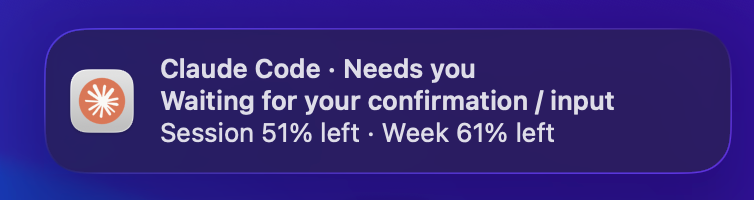
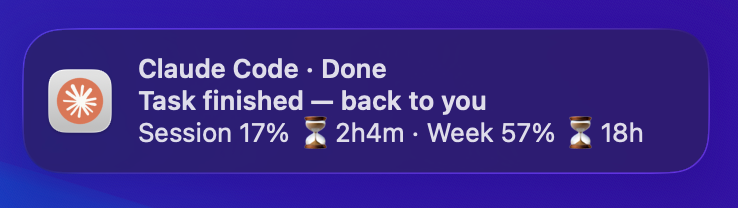
docs: update demo screenshot to show the reset countdown
Real notification capture of the new gauge layout (session/week balance
plus the ⏳ reset countdown); refresh the image alt text to match.

diff --git a/README.md b/README.md
@@ -10,7 +10,7 @@ When Claude finishes a task or needs your input, you get a native notification w
 - 🌐 **English + 中文**, auto-detected from your system language
 
 <p align="center">
-  <img src="assets/demo.png" alt="Claude Chime notification — Claude icon, message, and a live session/weekly usage gauge" width="540">
+  <img src="assets/demo.png" alt="Claude Chime notification — Claude icon, message, and a live session/weekly usage gauge with reset countdowns" width="540">
 </p>
 
 ## Install